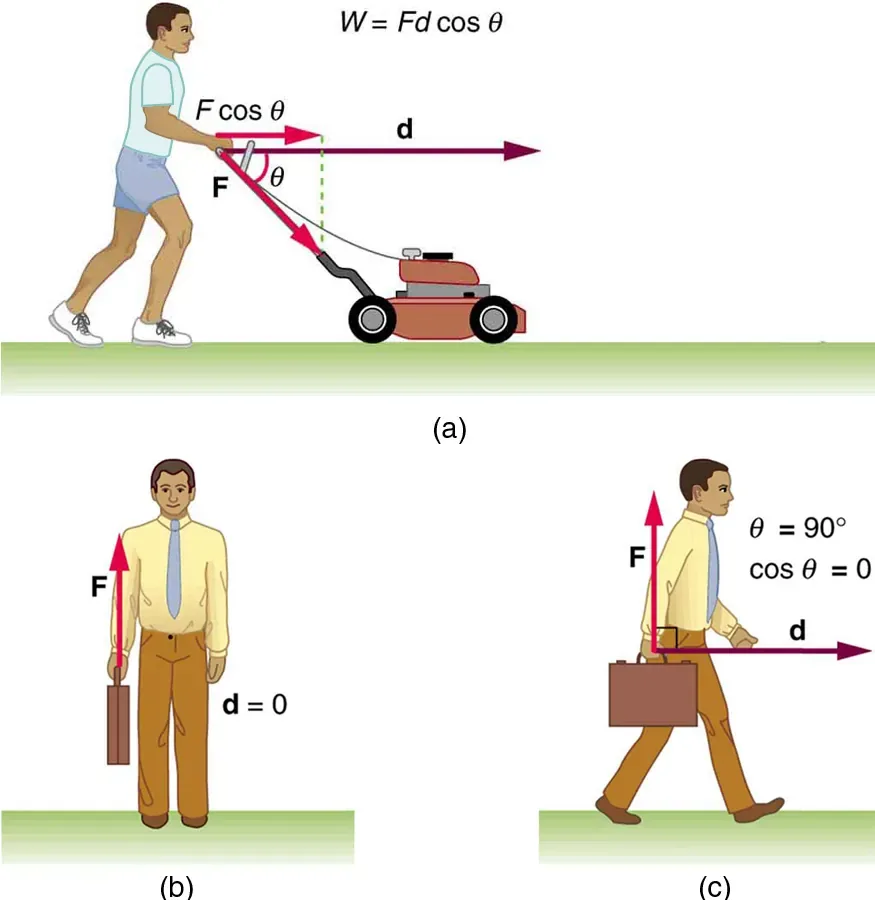
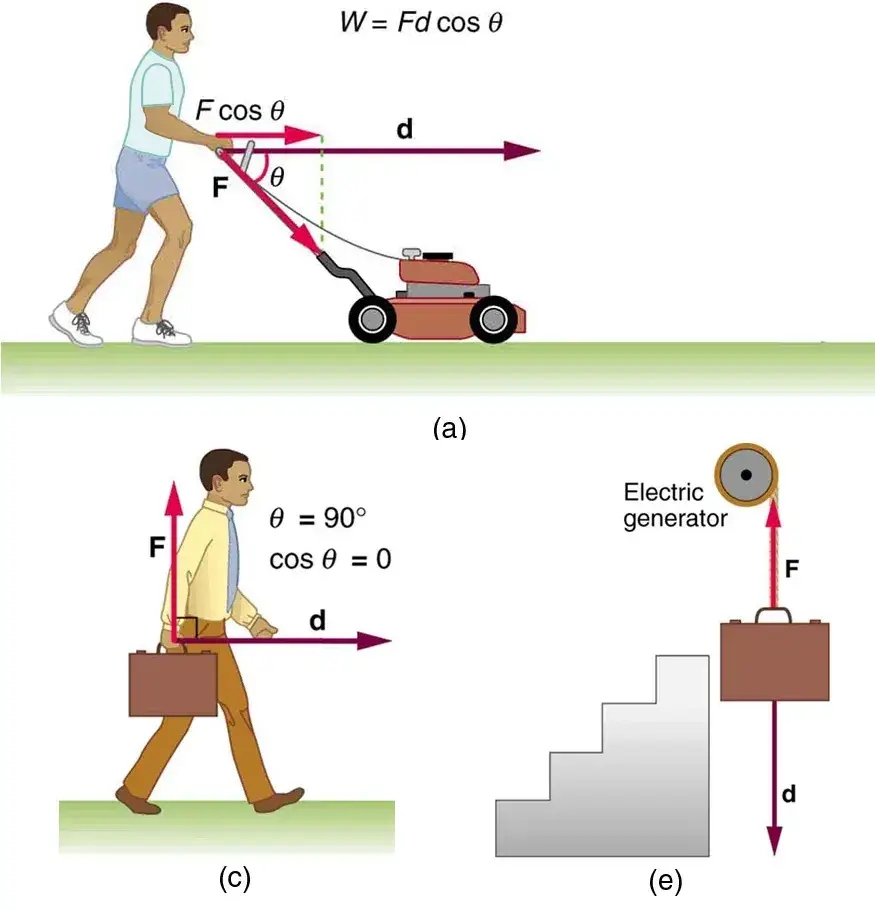
Hình OpenStax L10 đợt 2: năng lượng công cơ học — Hình 7.2 (a, c, e) (G1, M5)

diff --git a/content/lesson-samples/l10-nang-luong-cong-co-hoc/theory.html b/content/lesson-samples/l10-nang-luong-cong-co-hoc/theory.html
@@ -26,8 +26,8 @@
 </div>
 </div>
 
-<figure class="fig" data-tl="1"><img src="/assets/openstax/l10-nang-luong-cong-co-hoc/hinh-cong-luc-goc.webp" alt="Ba tình huống: (a) người đẩy máy cắt cỏ bằng lực F chếch góc θ so với độ dịch chuyển d, (b) người đứng giữ cặp, d = 0, (c) người xách cặp đi ngang, F vuông góc d" loading="lazy" width="875" height="900"><figcaption>Hình 1. Ba tình huống về công:<br>(a) đẩy xe cắt cỏ, như Lan đẩy Hà: <em>F</em>·<em>d</em>·cosθ.<br>(b) giữ cặp, như Minh ôm ba lô: <em>d</em> = 0.<br>(c) xách cặp đi ngang: θ = 90°.</figcaption></figure>
-<ol class="tl-fns"><li id="tl-fn-h1"><strong>Nhãn trong hình:</strong> <em>F</em> lực · <em>d</em> dịch chuyển.<br>Hình: OpenStax, College Physics 2e, Hình 7.2 (a–c) — CC BY‑NC‑SA 4.0 — openstax.org/books/college-physics-2e</li></ol>
+<figure class="fig" data-tl="1"><img src="/assets/openstax/l10-nang-luong-cong-co-hoc/hinh-cong-luc-goc.webp" alt="Ba tình huống: (a) người đẩy máy cắt cỏ bằng lực F chếch góc θ so với độ dịch chuyển d, (c) người xách cặp đi ngang, F vuông góc d, (e) cặp được máy phát điện hạ xuống, lực F hướng lên còn d hướng xuống" loading="lazy" width="875" height="910"><figcaption>Hình 1. Ba tình huống về công:<br>(a) đẩy xe cắt cỏ, như Lan đẩy Hà: <em>F</em>·<em>d</em>·cosθ.<br>(c) xách cặp đi ngang: θ = 90°, không sinh công.<br>(e) hạ cặp xuống: <em>F</em> ngược <em>d</em>, công âm.</figcaption></figure>
+<ol class="tl-fns"><li id="tl-fn-h1"><strong>Nhãn trong hình:</strong> <em>F</em> lực · <em>d</em> dịch chuyển.<br>Hình: OpenStax, College Physics 2e, Hình 7.2 (a, c, e) — CC BY‑NC‑SA 4.0 — openstax.org/books/college-physics-2e</li></ol>
 
 <h3>II. Kiến thức: năng lượng và công</h3>
 

diff --git a/content/lesson-samples/l10-nang-luong-cong-co-hoc/build_figs.py b/content/lesson-samples/l10-nang-luong-cong-co-hoc/build_figs.py
@@ -84,16 +84,16 @@ def angle_between(ux, uy, vx, vy):
     return math.degrees(math.acos(max(-1.0, min(1.0, c))))
 
 
-# ---------------- Hình 1: ảnh OpenStax College Physics 2e, Hình 7.2 a–c (đợt 28/10/2026) ----------------
+# ---------------- Hình 1: ảnh OpenStax College Physics 2e, Hình 7.2 (a, c, e) (đợt 1 + đợt 2, 28/10/2026) ----------------
 fig1 = ('<figure class="fig" data-tl="1"><img src="/assets/openstax/l10-nang-luong-cong-co-hoc/hinh-cong-luc-goc.webp" '
-        'alt="Ba tình huống: (a) người đẩy máy cắt cỏ bằng lực F chếch góc θ so với độ dịch chuyển d, (b) người đứng giữ cặp, d = 0, (c) người xách cặp đi ngang, F vuông góc d" '
-        'loading="lazy" width="875" height="900">'
+        'alt="Ba tình huống: (a) người đẩy máy cắt cỏ bằng lực F chếch góc θ so với độ dịch chuyển d, (c) người xách cặp đi ngang, F vuông góc d, (e) cặp được máy phát điện hạ xuống, lực F hướng lên còn d hướng xuống" '
+        'loading="lazy" width="875" height="910">'
         '<figcaption>Hình 1. Ba tình huống về công:<br>'
         '(a) đẩy xe cắt cỏ, như Lan đẩy Hà: <em>F</em>·<em>d</em>·cosθ.<br>'
-        '(b) giữ cặp, như Minh ôm ba lô: <em>d</em> = 0.<br>'
-        '(c) xách cặp đi ngang: θ = 90°.<br>'
+        '(c) xách cặp đi ngang: θ = 90°, không sinh công.<br>'
+        '(e) hạ cặp xuống: <em>F</em> ngược <em>d</em>, công âm.<br>'
         'Nhãn: <em>F</em> lực · <em>d</em> dịch chuyển.<br>'
-        '<small>Hình: OpenStax, College Physics 2e, Hình 7.2 (a–c) — CC BY‑NC‑SA 4.0 — openstax.org/books/college-physics-2e</small>'
+        '<small>Hình: OpenStax, College Physics 2e, Hình 7.2 (a, c, e) — CC BY‑NC‑SA 4.0 — openstax.org/books/college-physics-2e</small>'
         '</figcaption></figure>')
 
 # ---------------- Hình 2: ba trường hợp góc α ----------------

diff --git a/content/lesson-samples/l10-nang-luong-cong-co-hoc/nguon.md b/content/lesson-samples/l10-nang-luong-cong-co-hoc/nguon.md
@@ -3,3 +3,8 @@
 ## Hình OpenStax (28/10/2026)
 - Thay: Hình 1 → College Physics 2e Hình 7.2 (a–c), file `public/assets/openstax/l10-nang-luong-cong-co-hoc/hinh-cong-luc-goc.webp` (cắt bỏ (d), (e)). Ảnh raster là ngoại lệ có chủ đích của quy tắc SVG tự vẽ.
 - Giữ SVG: Hình 2 (ba góc nhọn/vuông/tù; Hình 7.2 không có góc tù, công âm); Hình 3 (thí nghiệm mặt nghiêng số liệu riêng của bài); Hình 4 (bài toán mẫu ván trượt 30°; Hình 7.15 khác bố cục và số liệu).
+
+## Hình OpenStax đợt 2 (28/10/2026)
+- Mở rộng Hình 1: ảnh `hinh-cong-luc-goc.webp` từ ô (a)–(c) thành ba ô (a), (c), (e) của College Physics 2e Hình 7.2, cắt lại từ nguồn: (a) trên, (c) và (e) cạnh nhau bên dưới (875×910 px, 22 KB). Ô (e) hạ cặp xuống có F ngược d, là chỗ sách có công âm. Vị trí giữ sau câu dự đoán như đợt 1.
+- Bỏ ô (b) giữ cặp d = 0 (chữ ít, câu dự đoán và quiz đã nói ý này) và ô (d) lên cầu thang (thêm một hàng, chữ nhỏ ở 375 px). Hình 2 (ba góc nhọn/vuông/tù) vẫn giữ để nối α = 0°, 90°, 180°.
+- Số chữ hiện ngay: 2201 → 2205 (figcaption đổi dòng (b) thành dòng (e)).
